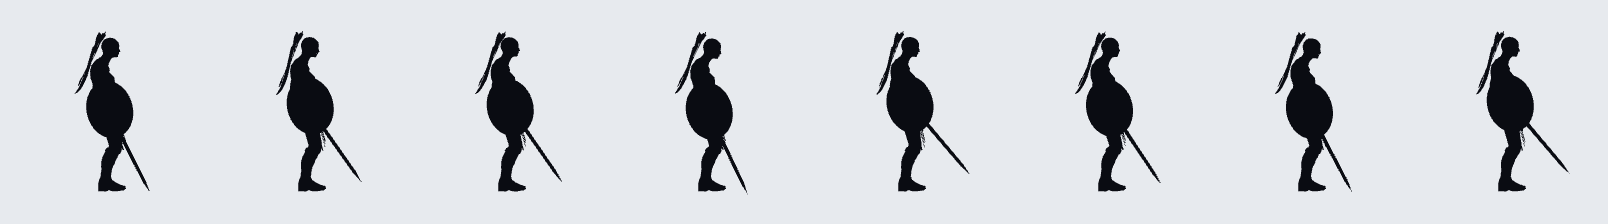
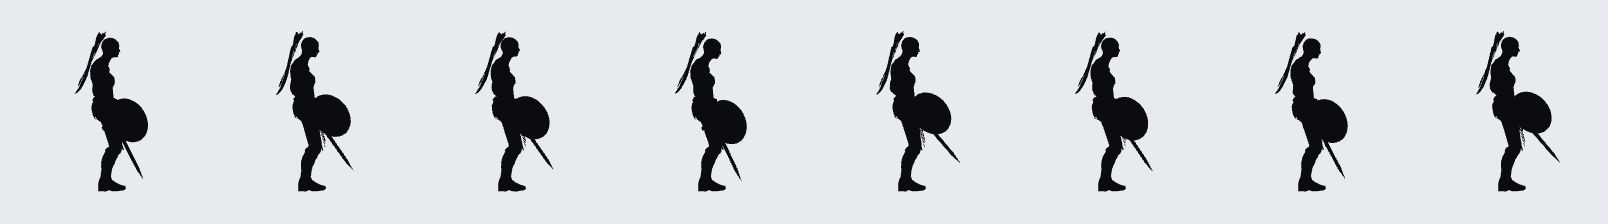
feat(ShadowArena): 剑盾试验打磨——下劈第二招式 + 盾牌绑臂定稿 + 同台身高对齐
## 本轮完善（上次提交「下一步待完善」清单的落地）
1. 盾牌姿态定稿：初版盾正面朝镜头+固定微倾，待机时盾心落肚子上、剪影圆鼓。
   定稿改为「沿左前臂绑持」——椭圆长轴对齐左肘→左手臂向（复用剑的屏幕平面旋转法）、
   沿臂向越过手心 14、再沿世界 Z 负向外推 14（+Z 实测是角色背侧，试渲两帧定的符号）。
   待机时盾垂在大腿前侧，躯干腰胸轮廓清晰；行走时盾随臂摆动。
2. 剑形微调：剑尖 96→78（举过肩不再冲出头顶太多），GRIP_ALONG 8→10 贴掌心。
3. 新招式「下劈」：新素材 Mixamo "Standing Melee Attack Downward"（Arissa 同体，
   2.267s，举剑过头→全弧下劈），接持剑态踢招(K)；拳(J)/必杀(L)仍播横扫。
   出招按 GLB_WEAPON_ACTS 数据表选帧，bare 无 chop 自动回退 attack。
4. 裸手出招帧：横扫 clip 用 hook_bare（无挂件）渲一版=徒手挥击，裸手态出招
   不再回退呆立 idle。
5. 同台身高对齐：sharp 量 alpha bbox——GLB 帧角色 161px vs SVG 战士约 105px，
   同 display scale 下武士高一半。CHARS.samurai.scaleAdj=0.66 补偿等高；
   bodyOffY=71 让命中框底对齐脚底（footY=183-112）。测量脚本 scratch/measure_bbox.mjs。
6. 素材管理：两段攻击 FBX 归档 assets_fbx/archive/virgil/（NOTES.md 全记录），
   Downloads 用过的原件已清（含上次遗留的 Sword And Shield Attack）。

## 验证
game-verify L0-L2 + playtest bot（胜/0 死/0 报错）双门通过；录屏抽帧确认：
裸手武士与影忍同高、持剑待机盾垂腿前躯干清晰、出招弓步前刺剑盾姿态正确。

## 下一步待完善
1. block/hurt/ko 仍回退 idle，无专属受击/倒地帧（Mixamo 有对应 clip 可补）。
2. 攻击节奏仍按 fps 粗对 ACT 命中窗口，未按帧精细对齐（下劈劈地瞬间 vs kick 命中窗）。
3. 下劈幅度大，若要更重的打击感可配镜头震动/地面尘土（现沿用通用 shake）。
4. 迁移 SlimeVale：露露是纯 canvas 程序化史莱姆，无人形骨骼——需为其新增人形
   角色载体（如骑士 NPC/敌人）才能套本方案，或对史莱姆走「贴纸挂点」简化路线。

diff --git a/game_runs/ShadowArena/game/data.js b/game_runs/ShadowArena/game/data.js
@@ -7,7 +7,9 @@ const GRAVITY = 1500;
 const CHARS = {
   // glb: true → 武士走 glb-sprite 渲染的 PNG 序列帧（scratch/hook_*.mjs 挂件试验），weapon 是运行时可变字段
   // （'bare'|'sword'，拾取场中道具后切换），而非静态特效开关；见 fight.js _spawnWeaponPickup/_checkPickup。
-  samurai: { name: '武士', hp: 100, speed: 155, reach: 84, punch: 9, kick: 13, special: 'dash', spDmg: 22, accent: '#e6c862', glb: true, weapon: 'bare', frameW: 192, frameH: 208 },
+  // scaleAdj：GLB 帧里角色占 161px、SVG 战士约 105px（sharp 量 alpha bbox），0.66 补偿到同台等高；
+  // bodyOffY：命中框底对齐脚底（帧内 footY=183，183-112=71），脚不再悬空/下沉。
+  samurai: { name: '武士', hp: 100, speed: 155, reach: 84, punch: 9, kick: 13, special: 'dash', spDmg: 22, accent: '#e6c862', glb: true, weapon: 'bare', frameW: 192, frameH: 208, scaleAdj: 0.66, bodyOffY: 71 },
   ninja:   { name: '影忍', hp: 88,  speed: 205, reach: 60, punch: 7, kick: 10, special: 'shuriken', spDmg: 14, accent: '#7fd0ff' },
   monk:    { name: '武僧', hp: 108, speed: 150, reach: 66, punch: 8, kick: 12, special: 'qi', spDmg: 18, accent: '#9fe6c4' },
   brawler: { name: '力士', hp: 132, speed: 120, reach: 74, punch: 12, kick: 16, special: 'shock', spDmg: 24, accent: '#ff9466' },
@@ -26,6 +28,9 @@ const ACT = {
 };
 const FRAME_W = 236, FRAME_H = 188, SCALE = 0.62;
 // glb-sprite 渲染帧数与生成时的 --frames 对应。
-// attack：持剑横扫（剑盾挂件，来自 Mixamo "Sword and Shield Attack"），只在 weapon==='sword' 出招时播。
-// 其余未单独渲的状态（block/hurt/ko、以及 bare 态出招）视觉上回退 idle/walk（见 combat.js _animKey），命中判定不受影响。
-const GLB_ACT = { idle: { n: 8, fps: 6 }, walk: { n: 8, fps: 10 }, attack: { n: 8, fps: 22 } };
+// attack：横扫（Mixamo "Sword and Shield Attack"，bare 版同 clip 无挂件=徒手挥击）；
+// chop：下劈（Mixamo "Standing Melee Attack Downward"，仅 sword 态踢招用）。
+// block/hurt/ko 仍回退 idle（见 combat.js _animKey），命中判定与视觉帧解耦。
+const GLB_ACT = { idle: { n: 8, fps: 6 }, walk: { n: 8, fps: 10 }, attack: { n: 8, fps: 22 }, chop: { n: 8, fps: 22 } };
+// 每种武器态各自拥有的动作集（chop 只渲了 sword 版）
+const GLB_WEAPON_ACTS = { bare: ['idle', 'walk', 'attack'], sword: ['idle', 'walk', 'attack', 'chop'] };

diff --git a/game_runs/ShadowArena/game/scenes/ShadowArenaScene.js b/game_runs/ShadowArena/game/scenes/ShadowArenaScene.js
@@ -9,13 +9,10 @@ class ShadowArenaScene extends Phaser.Scene {
     this.load.svg('qiwave', 'assets/svg/qiwave.svg', { width: 44, height: 36 });
     for (const id of ROSTER) {
       if (CHARS[id].glb) {
-        for (const w of ['bare', 'sword'])
-          for (const act of ['idle', 'walk'])
+        for (const [w, acts] of Object.entries(GLB_WEAPON_ACTS))
+          for (const act of acts)
             for (let i = 0; i < GLB_ACT[act].n; i++)
               this.load.image(`${id}_${w}_${act}_${i}`, `assets/3d/${id}_${w}_${act}_${i}.png`);
-        // 持剑横扫攻击帧（剑盾挂件，仅 sword 态出招用）
-        for (let i = 0; i < GLB_ACT.attack.n; i++)
-          this.load.image(`${id}_sword_attack_${i}`, `assets/3d/${id}_sword_attack_${i}.png`);
         continue;
       }
       for (const [act, a] of Object.entries(ACT))
@@ -29,23 +26,17 @@ class ShadowArenaScene extends Phaser.Scene {
     this.add.image(0, 0, 'stage').setOrigin(0, 0).setDepth(-100);
     for (const id of ROSTER) {
       if (CHARS[id].glb) {
-        for (const w of ['bare', 'sword']) {
-          for (const act of ['idle', 'walk']) {
+        for (const [w, acts] of Object.entries(GLB_WEAPON_ACTS)) {
+          for (const act of acts) {
             const key = `${id}_${w}_${act}`;
             if (this.anims.exists(key)) continue;
-            const a = GLB_ACT[act];
+            const a = GLB_ACT[act], loop = act === 'idle' || act === 'walk';
             this.anims.create({
-              key, frameRate: a.fps, repeat: -1,
+              key, frameRate: a.fps, repeat: loop ? -1 : 0,   // 攻击类非循环，播完停收招帧
               frames: Array.from({ length: a.n }, (_, i) => ({ key: `${id}_${w}_${act}_${i}` })),
             });
           }
         }
-        // 横扫攻击：非循环，播完停在收招帧
-        const ak = `${id}_sword_attack`;
-        if (!this.anims.exists(ak)) this.anims.create({
-          key: ak, frameRate: GLB_ACT.attack.fps, repeat: 0,
-          frames: Array.from({ length: GLB_ACT.attack.n }, (_, i) => ({ key: `${id}_sword_attack_${i}` })),
-        });
         continue;
       }
       for (const [act, a] of Object.entries(ACT)) {

diff --git a/game_runs/ShadowArena/game/systems/fight.js b/game_runs/ShadowArena/game/systems/fight.js
@@ -23,9 +23,10 @@ Object.assign(ShadowArenaScene.prototype, {
   _makeFighter(id, x, faceLeft) {
     const def = CHARS[id];
     const initialKey = def.glb ? `${id}_${def.weapon}_idle_0` : `${id}_idle_0`;
-    const sp = this.physics.add.sprite(x, FLOOR_Y - 60, initialKey).setScale(SCALE);
+    // scaleAdj：GLB 帧角色占比大于 SVG 帧，按 alpha bbox 实测补偿到同台等高
+    const sp = this.physics.add.sprite(x, FLOOR_Y - 60, initialKey).setScale(SCALE * (def.scaleAdj || 1));
     const fw = def.glb ? def.frameW : FRAME_W;
-    sp.body.setSize(46, 112).setOffset(fw / 2 - 23, 58);
+    sp.body.setSize(46, 112).setOffset(fw / 2 - 23, def.bodyOffY || 58);
     sp.setCollideWorldBounds(true); sp.setFlipX(faceLeft); sp.setDepth(10);
     sp.play(def.glb ? `${id}_${def.weapon}_idle` : `${id}_idle`);
     return { id, def, sprite: sp, hp: def.hp, maxHp: def.hp, state: 'idle', stateUntil: 0, invuln: 0, atkFrom: 0, atkTo: 0, atkHit: false, facingLeft: faceLeft, weapon: def.weapon };
@@ -35,7 +36,7 @@ Object.assign(ShadowArenaScene.prototype, {
   // 只有 glb track 的战士（目前是武士）参与，其余战士没有 weapon 字段，判定天然跳过。
   _spawnWeaponPickup() {
     const glbFighter = this.fighters.find((f) => f.def.glb && f.weapon === 'bare');
-    this.pickup = glbFighter ? this.add.image(GAME_W / 2, FLOOR_Y - 30, 'samurai_sword_idle_0').setScale(SCALE * 0.55).setDepth(15) : null;
+    this.pickup = glbFighter ? this.add.image(GAME_W / 2, FLOOR_Y - 30, 'samurai_sword_idle_0').setScale(SCALE * 0.4).setDepth(15) : null;
   },
 
   _checkPickup() {

diff --git a/game_runs/ShadowArena/game/systems/combat.js b/game_runs/ShadowArena/game/systems/combat.js
@@ -1,12 +1,14 @@
 /* ShadowArena — §4B 原型分割；方法体逐字保留。 */
 Object.assign(ShadowArenaScene.prototype, {
 
-  // glb track 战士：持剑态(weapon==='sword')出招播横扫攻击帧；bare 态出招/其余状态回退 idle/walk
-  // （按 weapon 分支）。命中判定仍走 ACT 表的 stateUntil/伤害数值，与视觉帧解耦。
+  // glb track 战士：出招按武器态选帧——拳/必杀播横扫(attack)，踢在持剑态播下劈(chop)；
+  // bare 无 chop 帧则回退 attack。block/hurt/ko 回退 idle。命中判定仍走 ACT 表，与视觉帧解耦。
   _animKey(f, st) {
     if (!f.def.glb) return `${f.id}_${st}`;
-    const atk = st === 'punch' || st === 'kick' || st === 'special';
-    if (f.weapon === 'sword' && atk) return `${f.id}_sword_attack`;
+    if (st === 'punch' || st === 'kick' || st === 'special') {
+      const move = st === 'kick' && GLB_WEAPON_ACTS[f.weapon].includes('chop') ? 'chop' : 'attack';
+      return `${f.id}_${f.weapon}_${move}`;
+    }
     return `${f.id}_${f.weapon}_${st === 'walk' ? 'walk' : 'idle'}`;
   },
 

diff --git a/game_runs/ShadowArena/game/systems/select.js b/game_runs/ShadowArena/game/systems/select.js
@@ -13,7 +13,7 @@ Object.assign(ShadowArenaScene.prototype, {
     ROSTER.forEach((id, i) => {
       const x = gap * i + gap / 2;
       const portraitKey = CHARS[id].glb ? `${id}_${CHARS[id].weapon}_idle_0` : `${id}_idle_0`;
-      const s = this.add.image(x, 296, portraitKey).setScale(0.9);
+      const s = this.add.image(x, 296, portraitKey).setScale(0.9 * (CHARS[id].scaleAdj || 1));
       const n = this.add.text(x, 398, CHARS[id].name, { fontFamily: 'Segoe UI, monospace', fontSize: '22px', color: '#2a1c10', fontStyle: 'bold' }).setOrigin(0.5);
       const sp = this.add.text(x, 426, this._spName(CHARS[id].special), { fontFamily: 'Segoe UI, monospace', fontSize: '14px', color: '#6a5236' }).setOrigin(0.5);
       this.selSprites.push(s); this.selGroup.add([s, n, sp]);
